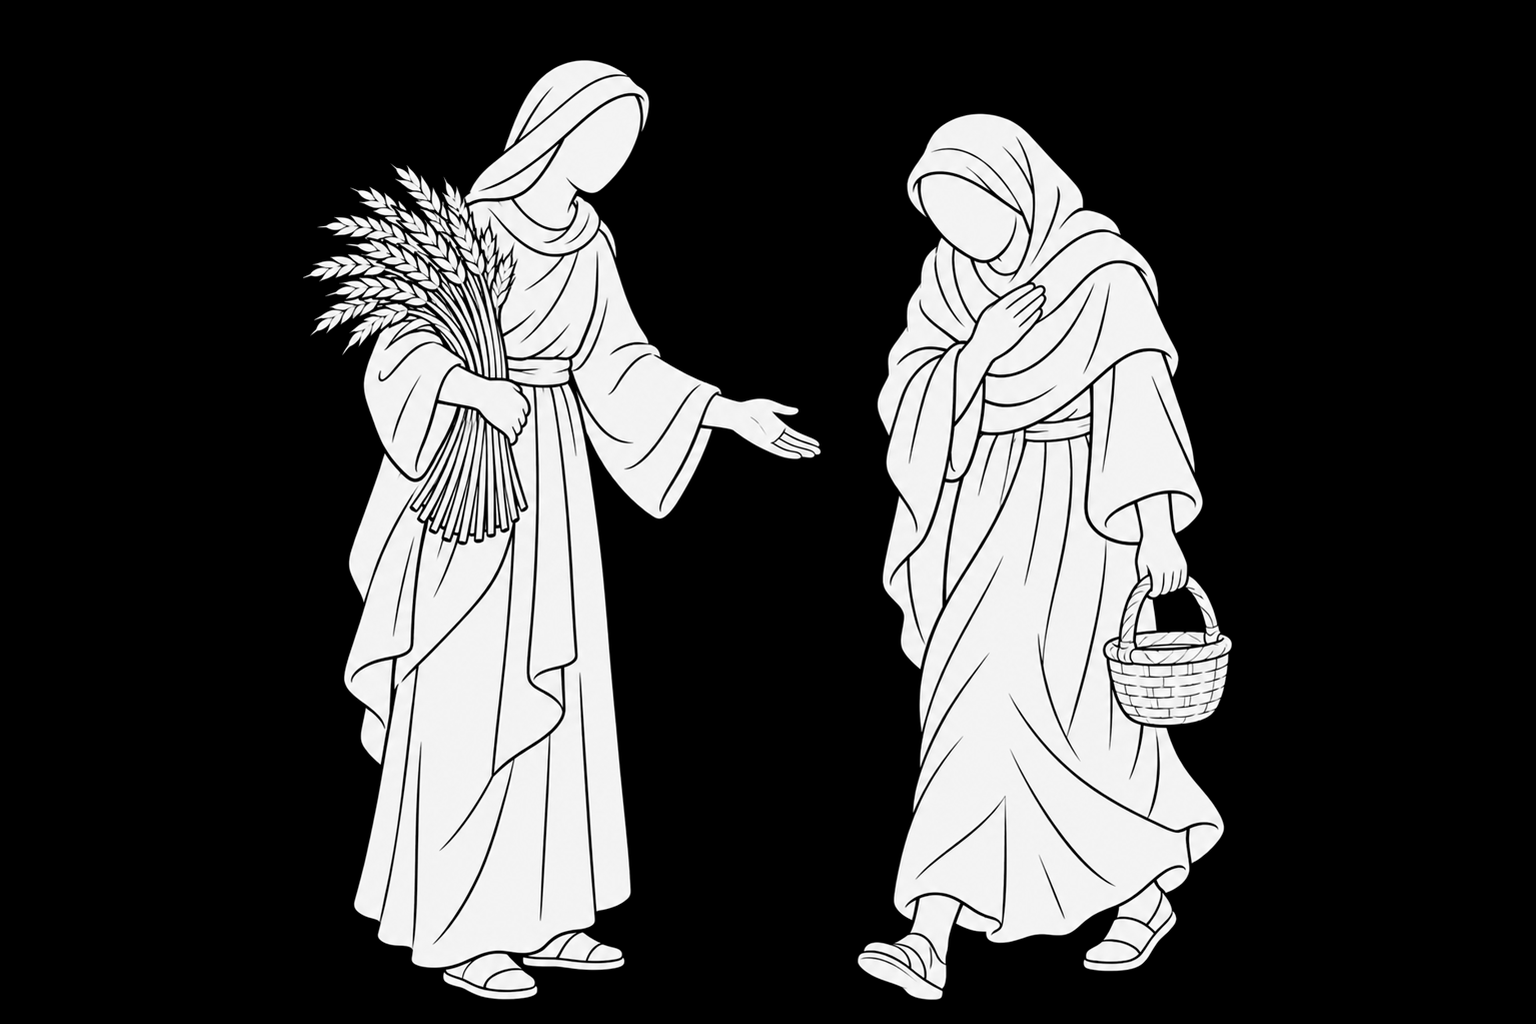
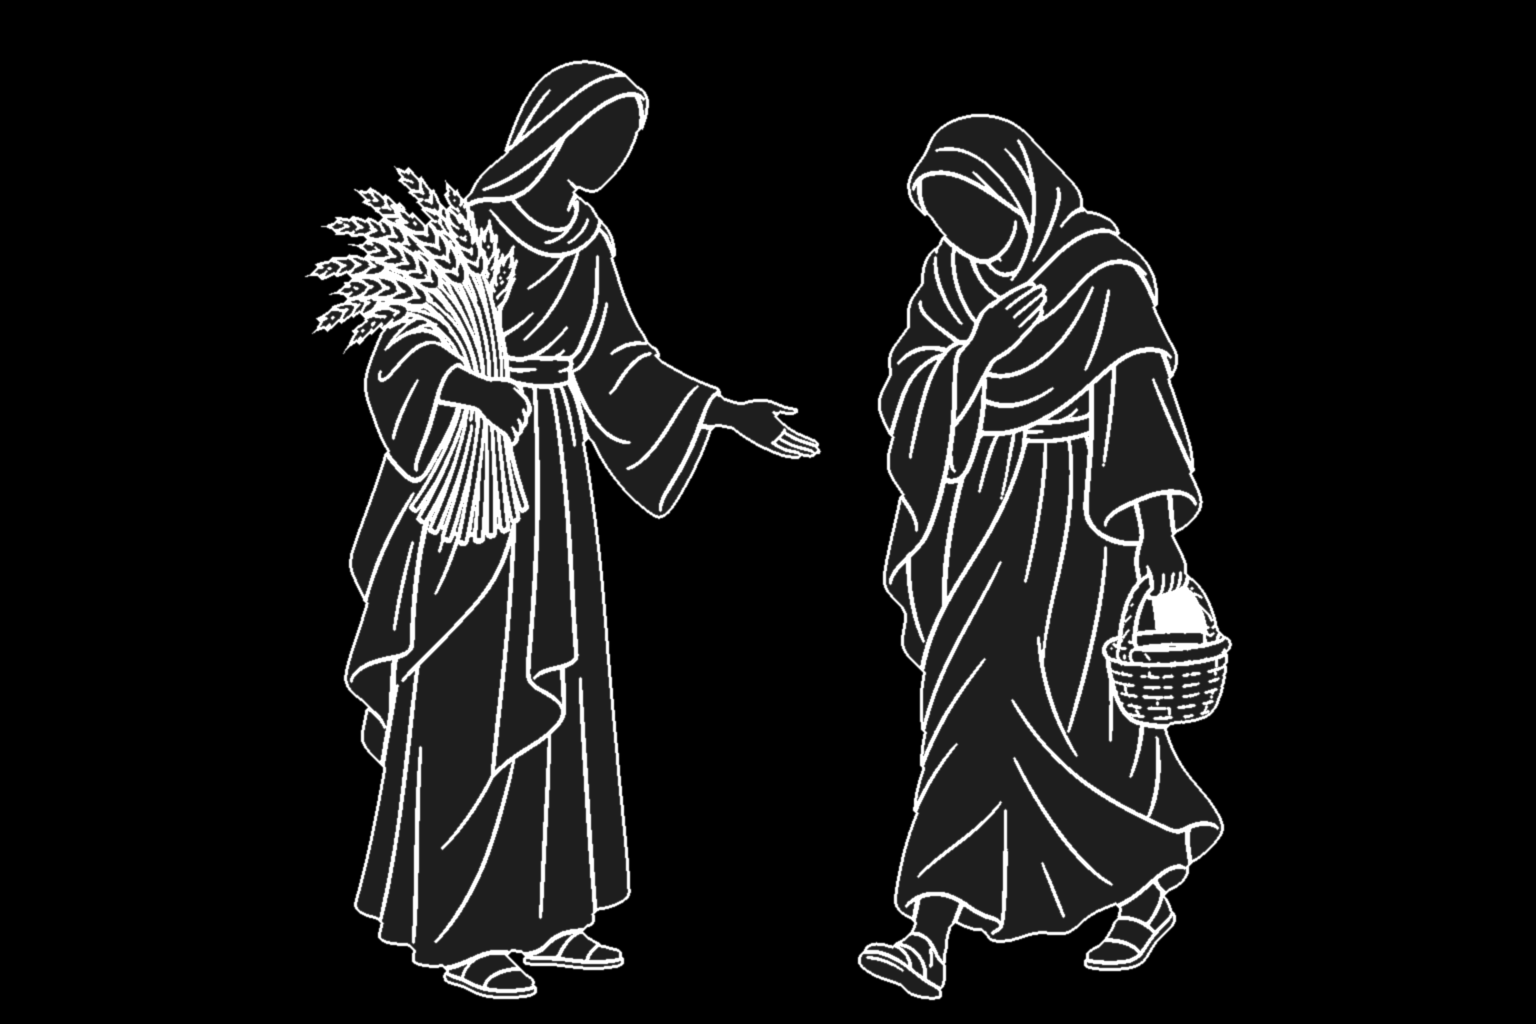
Song 06: line-art special figures, calmer lake under the lower third, softer bright plates
Claude-Session: https://claude.ai/code/session_01DSHsMeB7ain7qg3RYXYMEW

Changed region(s): [[0.1875, 0.0625, 0.5312, 1.0], [0.5625, 0.0938, 0.8125, 0.9688]]

diff --git a/engine/songs/s06_grains.py b/engine/songs/s06_grains.py
@@ -204,33 +204,34 @@ P = "assets/plates/s06/"
 SCENES = [
     # 1. the harvest field: an ocean of golden wheat of light round the mirror lake, the long low sun, lanterns
     dict(image=P + "field.jpg", t0=0.0, t1=7.4, fade_in=0.0, fade_out=2.4, zoom=(1.06, 1.10),
-         water=True, water_line=0.375, water_strength=0.5),
+         water=True, water_line=0.375, water_strength=0.5, gain=0.85, calm_gain=0.35),
     # 2. the narrow shore path between the still water and tall glowing wheat (Concession)
     dict(image=P + "path.jpg", t0=5.0, t1=20.6, fade_in=2.4, fade_out=1.8, transition="bloom", flash=0.25,
          zoom=(1.08, 1.02), pan=((0.01, 0.0), (0.0, 0.0)),
          gain=Track([(0, 1.0), (7.0, 1.0), (9.0, 0.85), (19.0, 0.85), (20.6, 1.0)])),
     # 3. the water's edge at rose ember dusk, wheat close at the left (Inclusiveness)
     dict(image=P + "shore.jpg", t0=18.8, t1=33.0, fade_in=1.8, fade_out=1.0, transition="fade",
-         zoom=(1.04, 1.08), water=True, water_line=0.35, water_strength=0.4),
+         zoom=(1.04, 1.08), water=True, water_line=0.35, water_strength=0.4, calm_gain=0.4),
     # 4. the cracked wilderness, dry and dusty ...
     dict(image=P + "wilderness_dry.jpg", t0=32.0, t1=35.0, fade_in=1.0, fade_out=2.0, transition="fade",
-         zoom=(1.02, 1.04), water=True, water_line=0.333, water_strength=0.4),
+         zoom=(1.02, 1.04), water=True, water_line=0.333, water_strength=0.4, calm_gain=0.35),
     # ... which the living gold water fills, spreading out from where it meets the lake, with green shoots
     dict(image=P + "wilderness.jpg", t0=33.0, t1=43.5, fade_in=2.0, fade_out=2.0, transition="ripple",
-         ripple_from=(0.62, 0.34), zoom=(1.04, 1.09), water=True, water_line=0.333, water_strength=0.4,
+         ripple_from=(0.62, 0.34), zoom=(1.04, 1.09), water=True, water_line=0.333, water_strength=0.4, calm_gain=0.35,
          gain=Track([(0, 1.0), (33.0, 0.9), (43.5, 0.9)])),
     # 5. the fragrance: the healed land, wheat bending in the wind, white blossoms along a golden stream
     dict(image=P + "blossom.jpg", t0=41.5, t1=48.6, fade_in=2.0, fade_out=3.0, transition="fade",
-         zoom=(1.03, 1.08), water=True, water_line=0.34, water_strength=0.4,
+         zoom=(1.03, 1.08), water=True, water_line=0.34, water_strength=0.4, calm_gain=0.35,
          gain=Track([(0, 0.9), (43.0, 0.85), (48.6, 0.85)])),
     # 6. the edge of heaven: the lake, the sea of wheat, a plain of lit homes, lanterns rising, the end card
     dict(image=P + "heaven.jpg", t0=45.6, t1=61.0, fade_in=3.0, fade_out=0.0, transition="fade",
-         zoom=(1.08, 1.02), water=True, water_line=0.39, water_strength=0.5,
-         gain=Track([(0, 0.95), (49.0, 0.95), (52.0, 0.8), (TOTAL, 0.8)])),
+         zoom=(1.08, 1.02), water=True, water_line=0.39, water_strength=0.5, calm_gain=0.35,
+         gain=Track([(0, 0.85), (49.0, 0.85), (52.0, 0.75), (TOTAL, 0.75)])),
 ]
 
-# B. people of light: Anthony's two special figures (assets/song_figures/s06/, prepared with tools/prepare_figure.py)
-# and song 06's own poses built from the shared library by make_poses.py.
+# B. people of light: Anthony's two special figures (assets/song_figures/s06/, prepared with tools/prepare_figure.py,
+# then turned into line art by line_figure.py so they do not glow as flat white shapes) and song 06's own poses
+# built from the shared library by make_poses.py.
 F = "assets/song_figures/s06/"
 FIGURES = [
     # Concession, "Please, after you.": they arrive at the same spot on the narrow path from opposite sides and stop

diff --git a/assets/song_figures/s06/line_figure.py b/assets/song_figures/s06/line_figure.py
@@ -1,0 +1,21 @@
+"""Turns Anthony's two filled special figures (white bodies with black drawn lines, from the Drive folder Assets/s06)
+into the line-art look of the shared library, so the people of light keep their drawn folds instead of glowing as
+flat white shapes. Run after tools/prepare_figure.py:
+  python3 assets/song_figures/s06/line_figure.py assets/song_figures/s06/s06_concession_step_aside.png
+"""
+import sys
+import numpy as np
+from PIL import Image
+from scipy import ndimage
+
+for path in sys.argv[1:]:
+    g = np.asarray(Image.open(path).convert("L")).astype(np.float64) / 255
+    body = ndimage.binary_fill_holes(ndimage.binary_closing(g > 0.5, iterations=3))
+    inner = ndimage.binary_erosion(body, iterations=2)
+    lines = (g < 0.45) & inner                                       # the drawn folds inside the body
+    lines = ndimage.binary_dilation(lines, iterations=1)
+    rim = body & ~ndimage.binary_erosion(body, iterations=3)         # the outline of the body
+    out = 0.12 * body + 0.95 * (lines | rim)
+    out = ndimage.gaussian_filter(out, 0.7)
+    Image.fromarray((np.clip(out, 0, 1) * 255).astype(np.uint8)).save(path)
+    print("lined", path)
